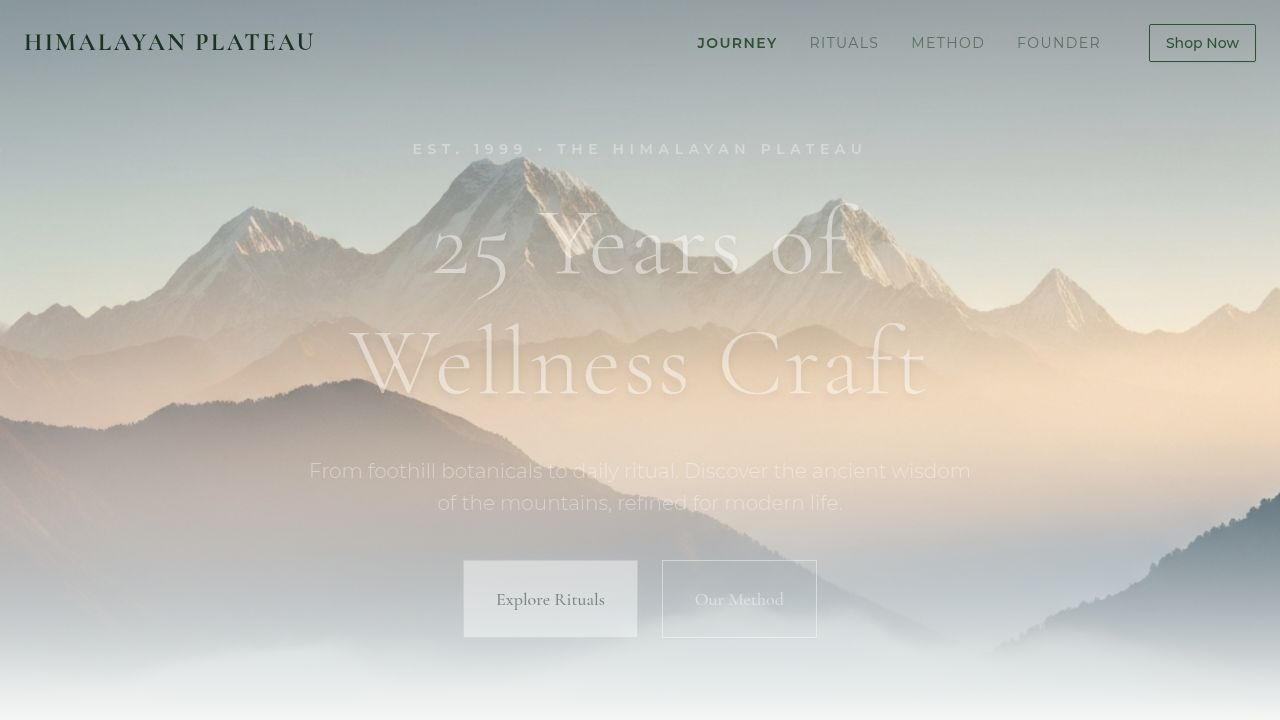
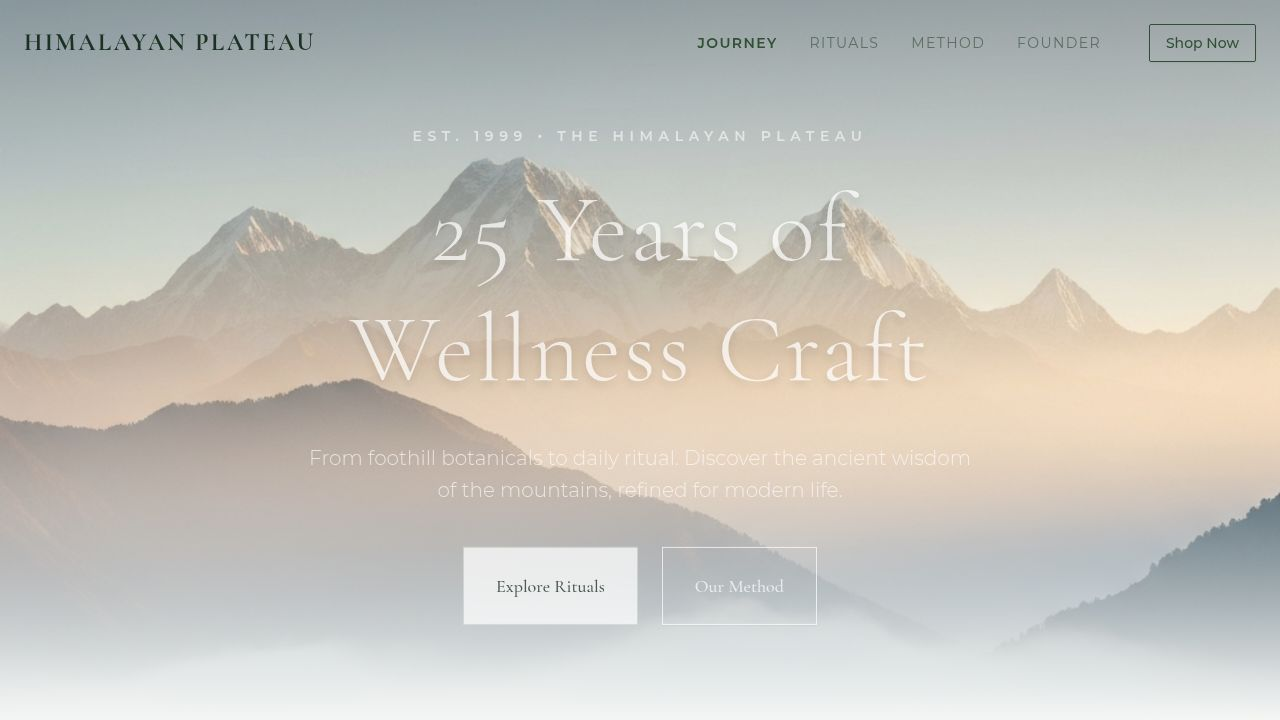
Add product images and team details, updating location and social link
Integrates new product images, team member photos and details for CEO and Directors, updates location to Haldwani, Nainital, and links the Instagram footer icon.

Replit-Commit-Author: Agent
Replit-Commit-Session-Id: 7168174c-ce0b-42ce-99ef-f42db3c9c3af
Replit-Commit-Checkpoint-Type: full_checkpoint
Replit-Commit-Event-Id: f6f446ad-0987-4b17-9ade-5c6b6a8aa090
Replit-Commit-Screenshot-Url: https://storage.googleapis.com/screenshot-production-us-central1/9ddce3fe-24b8-4545-8351-8bdba5e2b336/7168174c-ce0b-42ce-99ef-f42db3c9c3af/NxWVhrN
Replit-Helium-Checkpoint-Created: true

diff --git a/client/src/lib/data.ts b/client/src/lib/data.ts
@@ -5,44 +5,55 @@ export const products = [
     name: "Men's Health",
     ritualLine: "Strength from the Stone",
     category: "Strength",
-    description: "A potent blend of Shilajit and Ashwagandha designed to support vitality and endurance. Traditionally used to ground energy and build resilience.",
-    storySnippet: "Harvested from the high-altitude rocks where the air is thin and the sun is fierce.",
-    benefits: ["Supports stamina", "Promotes vitality", "Grounds energy"],
-    suggestedUse: "Take two capsules with warm milk or water at dawn.",
-    image: "/images/mens-health.png"
+    description: "A natural energy and stamina booster prepared in Cow Ghee using anti-aging herbs. Designed to rejuvenate vitality, improve vigour, and support natural testosterone levels.",
+    storySnippet: "Formulated with powerful herbs to enhance desire and performance, grounded in ancient wisdom.",
+    benefits: ["Boosts natural energy & stamina", "Supports healthy testosterone levels", "Rejuvenates vitality & vigour"],
+    suggestedUse: "Take regularly to support focus, stamina, and energy.",
+    image: "/images/product-mens-health.jpg"
   },
   {
     id: "womens-health",
     name: "Women's Health",
     ritualLine: "Balance of the Valley",
     category: "Balance",
-    description: "Shatavari and Lodhra come together to support hormonal balance and inner harmony. A gentle daily ritual for well-being.",
-    storySnippet: "Grown in the sheltered valleys where the monsoon rains nourish the soil.",
-    benefits: ["Supports hormonal balance", "Promotes inner calm", "Nourishes the body"],
-    suggestedUse: "Dissolve one tablet in water after your evening meal.",
-    image: "/images/womens-health.png"
+    description: "A comprehensive formula to support hormonal balance and regulate the menstrual cycle. Helps improve hemoglobin, provides relief from backache, and purifies the blood.",
+    storySnippet: "Active & Healthy formula with Cranberry flavor to regulate metabolism and provide strength.",
+    benefits: ["Supports hormonal balance", "Regulates menstruation cycle", "Improves hemoglobin & metabolism"],
+    suggestedUse: "Dissolve one tablet in water. Enjoy the cranberry flavor.",
+    image: "/images/product-womens-health.jpg"
   },
   {
     id: "anti-stress",
     name: "Anti Stress",
     ritualLine: "Calm of the Mist",
     category: "Calm",
-    description: "Brahmi and Jatamansi offer a reprieve from the modern pace. Designed to support mental clarity and relaxation.",
-    storySnippet: "Gathered from the misty peaks where silence is the only sound.",
-    benefits: ["Supports relaxation", "Promotes mental clarity", "Soothes the mind"],
-    suggestedUse: "Take one capsule when the world feels too loud.",
-    image: "/images/anti-stress.png"
+    description: "Ancient Vedic Ayurvedic Siddha formula for calm and relaxation. Features Mandukparni to support the nervous system, improve focus, and enhance mood.",
+    storySnippet: "Natural stress relief designed to bring emotional well-being and concentration.",
+    benefits: ["Natural stress relief", "Improves focus & concentration", "Supports nervous system relaxation"],
+    suggestedUse: "Take daily to enhance mood and find your inner calm.",
+    image: "/images/product-anti-stress.jpg"
   },
   {
     id: "ved-glow",
     name: "Ved Glow",
     ritualLine: "Radiance of the Sun",
     category: "Glow",
-    description: "Manjistha and Neem working to support healthy skin from within. A tribute to the golden light of the Himalayas.",
-    storySnippet: "Inspired by the sunrise hitting the snow-capped peaks.",
-    benefits: ["Supports healthy skin", "Promotes natural radiance", "Purifies from within"],
-    suggestedUse: "Take two capsules daily to welcome the light.",
-    image: "/images/ved-glow.png"
+    description: "Proprietary Ayurvedic product formulated by Ancient Siddha Ayurvedic Vidhi. Purifies blood to bring a natural glow, fight blemishes, and prevent wrinkles.",
+    storySnippet: "Unlock your skin's natural radiance and fight pigmentation from within.",
+    benefits: ["Purifies blood for natural glow", "Fights blemishes & pigmentation", "Prevents wrinkles & skin scars"],
+    suggestedUse: "Take regularly to support healthy, glowing skin.",
+    image: "/images/product-ved-glow.jpg"
+  },
+  {
+    id: "rhodo-cor",
+    name: "Rhodo Cor",
+    ritualLine: "Heart of the Himalayas",
+    category: "Balance",
+    description: "Supports cardiovascular wellness with rich natural Omega 3, 5, 6, 7 & 9 antioxidants. Helps maintain normal blood cholesterol levels and supports liver health.",
+    storySnippet: "A powerful antioxidant blend to support cardiac wellness and immunity.",
+    benefits: ["Supports cardiovascular wellness", "Rich in natural Omegas & Antioxidants", "Helps maintain healthy cholesterol"],
+    suggestedUse: "Take to improve immunity and support cardiac function.",
+    image: "/images/product-rhodo-cor.jpg"
   }
 ];
 

diff --git a/client/src/pages/about.tsx b/client/src/pages/about.tsx
@@ -61,16 +61,15 @@ export default function About() {
             </div>
 
             <div className="bg-muted/30 p-8 rounded-lg border border-border mt-12">
-               <div className="flex items-center gap-6 mb-6">
-                 <div className="w-20 h-20 bg-gray-300 rounded-full flex-shrink-0 flex items-center justify-center text-xs text-muted-foreground uppercase text-center p-2">
-                   CEO Photo Placeholder
-                 </div>
+               <div className="flex items-center gap-6 mb-8">
+                 <img src="/images/ceo-rohit.jpg" alt="Rohit Agrawal" className="w-24 h-24 rounded-full object-cover border-2 border-primary/20" />
                  <div>
-                   <h3 className="font-serif text-xl">Rohit Agrawal</h3>
+                   <h3 className="font-serif text-2xl">Rohit Agrawal</h3>
                    <p className="text-sm text-muted-foreground uppercase tracking-widest">Founder & CEO</p>
                  </div>
                </div>
-               <div className="space-y-4 text-sm">
+               
+               <div className="space-y-4 text-sm mb-8 border-b border-border pb-8">
                  <div className="flex items-center gap-3">
                    <Mail className="w-4 h-4 text-primary" />
                    <span>[email redacted]</span>
@@ -81,7 +80,27 @@ export default function About() {
                  </div>
                  <div className="flex items-center gap-3">
                    <MapPin className="w-4 h-4 text-primary" />
-                   <span>Almora, Uttarakhand, India</span>
+                   <span>Haldwani, Nainital, Uttarakhand, India</span>
+                 </div>
+               </div>
+
+               <div className="space-y-6">
+                 <span className="text-xs font-bold uppercase tracking-widest text-accent">Board of Directors</span>
+                 
+                 <div className="flex items-center gap-4">
+                   <img src="/images/bod-utsav.jpg" alt="Utsav Saini" className="w-16 h-16 rounded-full object-cover border border-border" />
+                   <div>
+                     <h4 className="font-serif text-lg">Utsav Saini</h4>
+                     <p className="text-xs text-muted-foreground uppercase">Director</p>
+                   </div>
+                 </div>
+
+                 <div className="flex items-center gap-4">
+                   <img src="/images/bod-lalit.jpg" alt="Dr. Lalit Upadhyay" className="w-16 h-16 rounded-full object-cover border border-border" />
+                   <div>
+                     <h4 className="font-serif text-lg">Dr. Lalit Upadhyay</h4>
+                     <p className="text-xs text-muted-foreground uppercase">Director</p>
+                   </div>
                  </div>
                </div>
             </div>

diff --git a/client/src/components/Footer.tsx b/client/src/components/Footer.tsx
@@ -23,7 +23,7 @@ export default function Footer() {
         <div>
           <h4 className="font-sans text-sm font-bold uppercase tracking-widest mb-6 text-accent">Connect</h4>
           <ul className="space-y-4 text-muted/60">
-            <li>Instagram</li>
+            <li><a href="https://www.instagram.com/thehimalayanplateau?igsh=MWpjZXI5ZmtldnJ4aw==" target="_blank" rel="noopener noreferrer" className="hover:text-accent transition-colors flex items-center gap-2">Instagram</a></li>
             <li>Twitter</li>
             <li>Email Us</li>
           </ul>